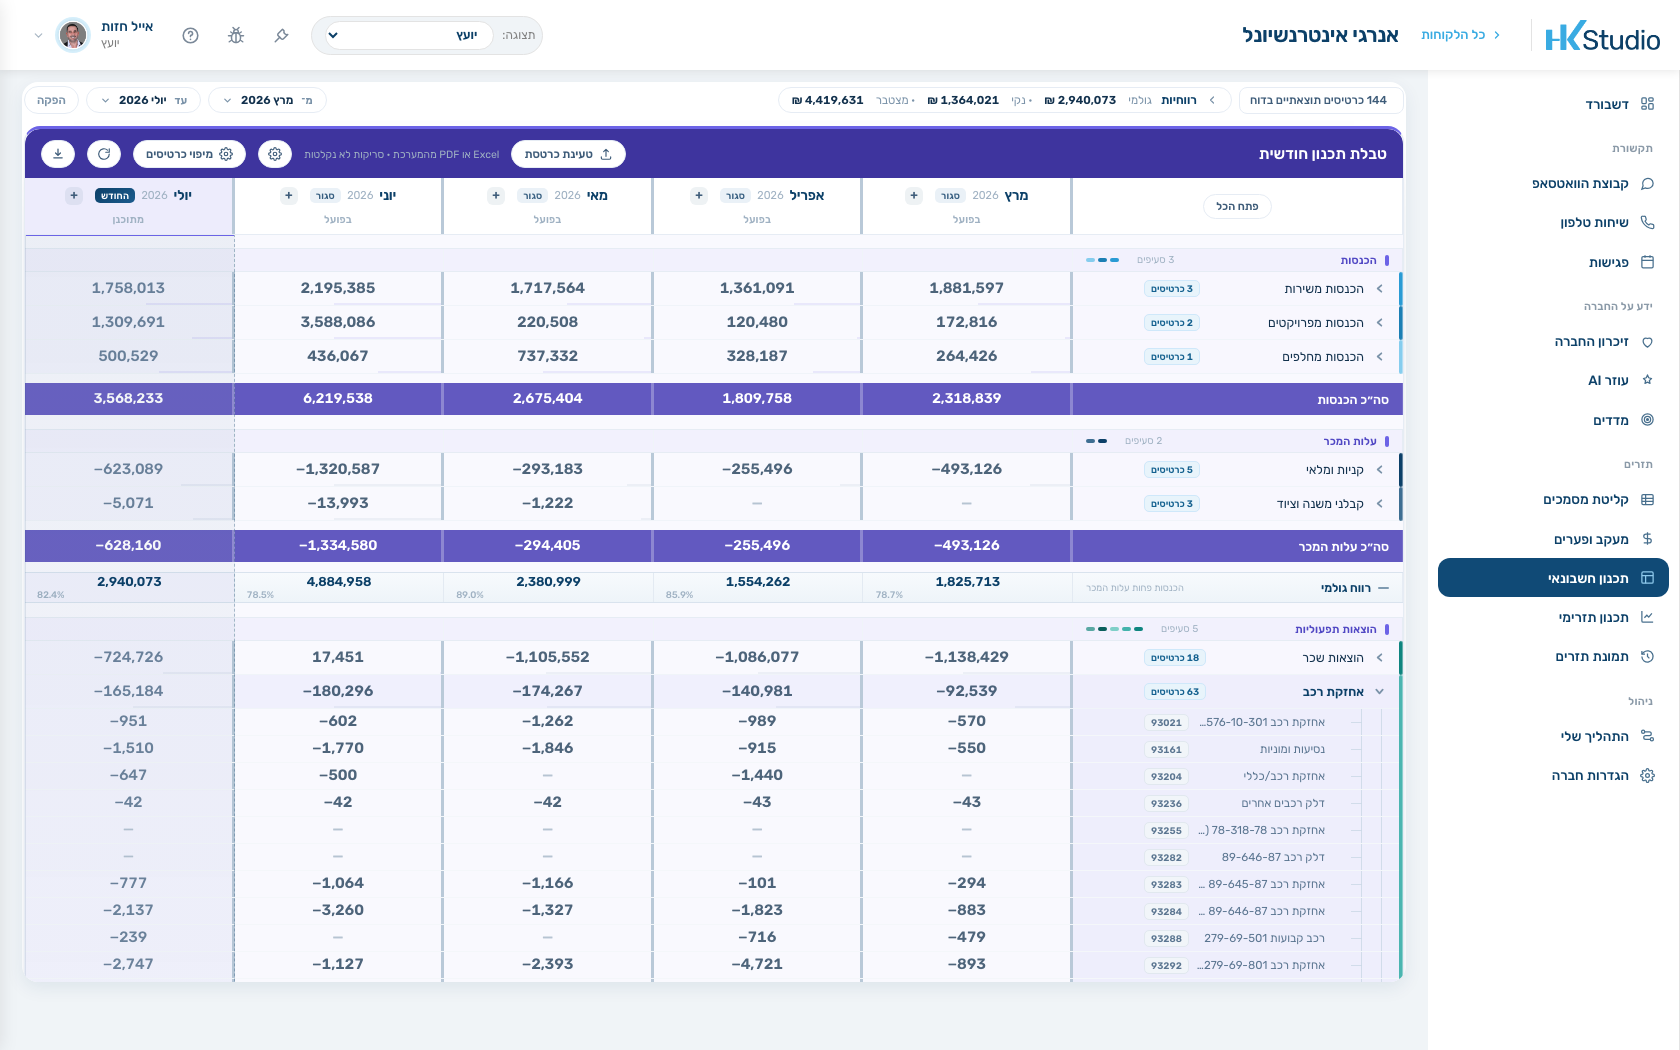
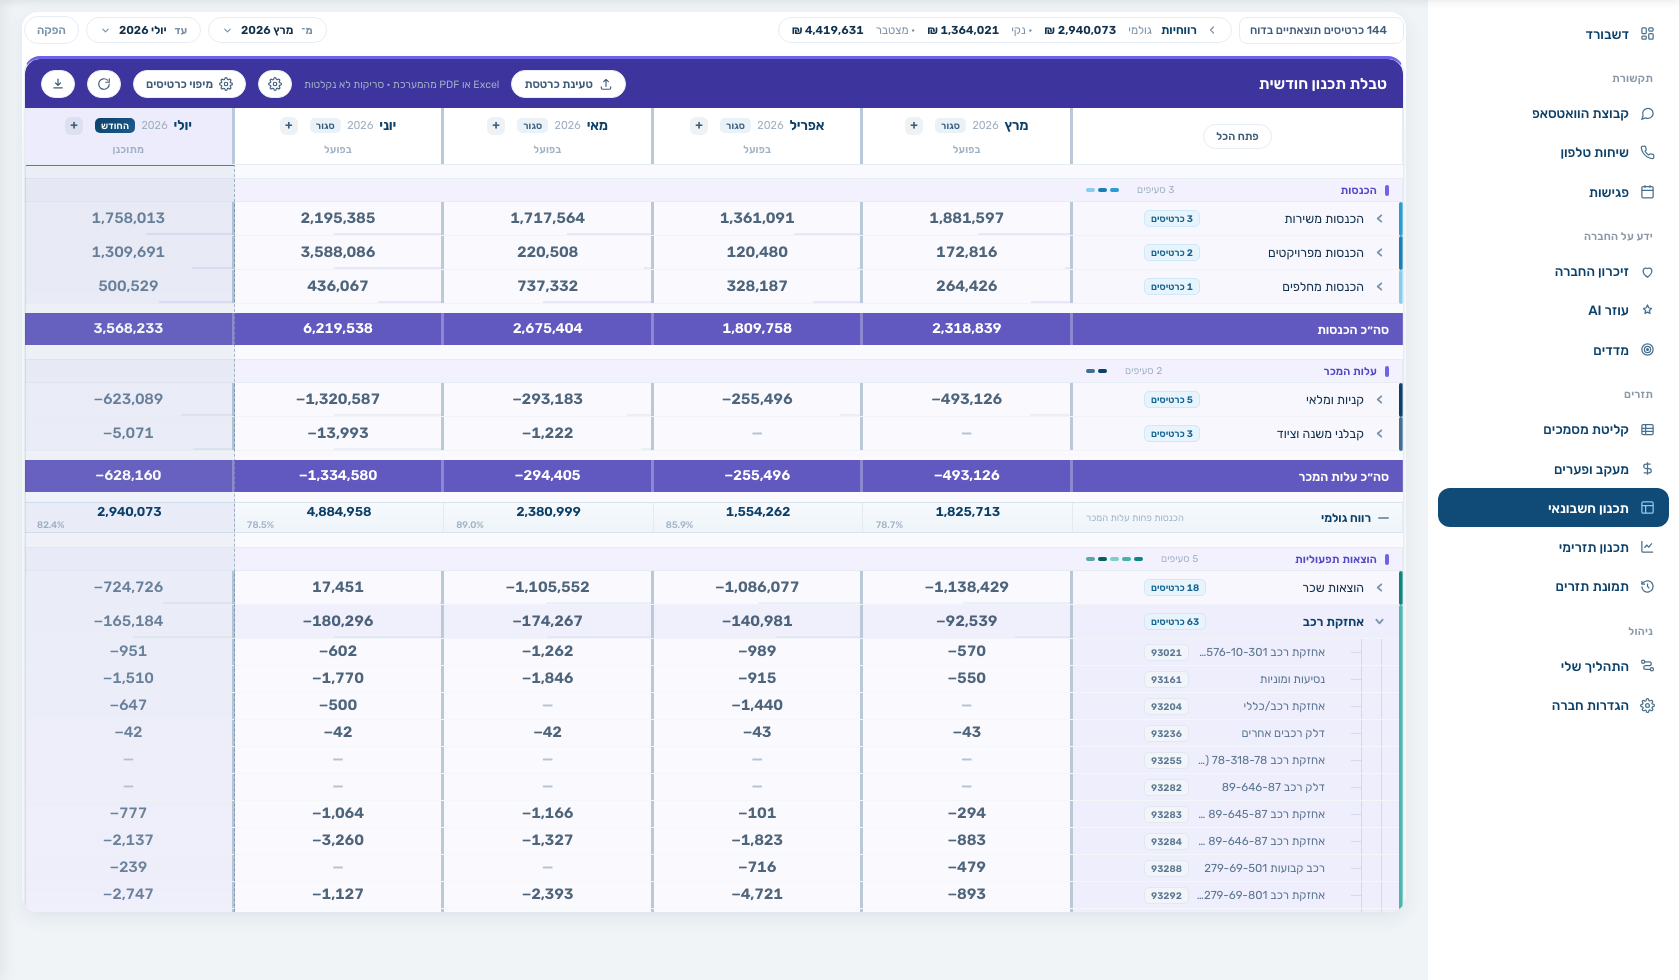
Strip prototype dev chrome from every screenshot; pull cli-dash
Screenshot hygiene — the checks that matter here are not "does the
string HK appear" but "would a real client ever see this":

- All 11 shots carried the prototype's dev envelope in their top 70px:
  the "אייל חזות" avatar with a role label, a role switcher
  ("תצוגה: יועץ / בעל העסק / מנהל מערכת"), and the bug and pin
  icons of the dev toolbar. That included adv-clients.png — the hero
  image, so a bug icon was the first thing a visitor would see.
  The bar is exactly 70px on every file and the cut lands on the app
  content's own top edge, so all 11 are cropped to 1680x980 with
  nothing lost. Originals remain in hk/mainScreen/docs/shots.
- cli-dash.png is pulled from the page entirely. Cropping clears its
  role switcher, but the middle card reads "משימות מנהל התזרים" — an
  internal role name on a screen that is meant to be the client's,
  under a section selling white-label. That one is Eyal's call; an
  HTML comment marks why it is held out.

Copy and behaviour:
- Secondary CTA is "שלח לי סיור במסכים" in both places. Dropped
  "מה HK עושה בחודש — 3 דקות": there is no such video, so a click
  landing on a contact form would have been a bait.
- Reveal animation toned down to opacity + 10px over 280ms, once per
  element; prefers-reduced-motion now also removes the progress bar
  from the DOM rather than just skipping the fades.

Note: the repository is public and has carried real product
screenshots in every commit since it was created in May. This commit
[…]

diff --git a/index.html b/index.html
@@ -43,11 +43,11 @@
       </p>
       <div class="hero-cta">
         <button class="btn btn-primary btn-lg" data-open-modal data-cta="הירו · בוא נעבור על התיק שלך">בוא נעבור על התיק שלך</button>
-        <button class="btn btn-ghost btn-lg" data-open-modal data-cta="הירו · מה HK עושה בחודש">מה HK עושה בחודש — 3 דקות</button>
+        <button class="btn btn-ghost btn-lg" data-open-modal data-cta="הירו · שלח לי סיור במסכים">שלח לי סיור במסכים</button>
       </div>
 
       <figure class="shot shot-hero">
-        <img src="assets/shots/adv-clients.png" width="1680" height="1050"
+        <img src="assets/shots/adv-clients.png" width="1680" height="980"
              alt="התיק שלי — כל הלקוחות במבט אחד, עם פס דופק, יתרה ומגמה" />
         <figcaption>התיק שלי — כל הלקוחות במבט אחד, עם פס דופק, יתרה ומגמה</figcaption>
       </figure>
@@ -198,13 +198,13 @@
         </ul>
 
         <figure class="shot">
-          <img src="assets/shots/mgr-opsmode.png" width="1680" height="1050" loading="lazy"
+          <img src="assets/shots/mgr-opsmode.png" width="1680" height="980" loading="lazy"
                alt="מצב תפעול על חברה אחת — חמשת שלבי העבודה עם מונה משימות בכל שלב, ושעון שמודד את הזמן" />
           <figcaption>מצב תפעול על חברה אחת — חמשת שלבי העבודה עם מונה משימות בכל שלב, ושעון שמודד את הזמן</figcaption>
         </figure>
 
         <figure class="shot">
-          <img src="assets/shots/mgr-ops.png" width="1680" height="1050" loading="lazy"
+          <img src="assets/shots/mgr-ops.png" width="1680" height="980" loading="lazy"
                alt="המבט־על של מנהל התזרים — זמני תפעול, סטטוס, מסמכים להזנה ודוחות חודשיים על פני כל החברות" />
           <figcaption>המבט־על של מנהל התזרים — זמני תפעול, סטטוס, מסמכים להזנה ודוחות חודשיים על פני כל החברות</figcaption>
         </figure>
@@ -229,7 +229,7 @@
         </ul>
 
         <figure class="shot">
-          <img src="assets/shots/co-mem.png" width="1680" height="1050" loading="lazy"
+          <img src="assets/shots/co-mem.png" width="1680" height="980" loading="lazy"
                alt="כרטיס זיכרון הלקוח — 12 קטגוריות בשני מעגלים, עם מקור ותאריך לכל עדכון" />
           <figcaption>כרטיס זיכרון הלקוח — 12 קטגוריות בשני מעגלים, עם מקור ותאריך לכל עדכון</figcaption>
         </figure>
@@ -254,7 +254,7 @@
         </ul>
 
         <figure class="shot">
-          <img src="assets/shots/adv-comm.png" width="1680" height="1050" loading="lazy"
+          <img src="assets/shots/adv-comm.png" width="1680" height="980" loading="lazy"
                alt="מסך התקשורת — ארבעה ערוצים ברשימה אחת, עם בורר לקוח וזירת תוצרים" />
           <figcaption>מסך התקשורת — ארבעה ערוצים ברשימה אחת, עם בורר לקוח וזירת תוצרים</figcaption>
         </figure>
@@ -278,13 +278,13 @@
         </ul>
 
         <figure class="shot">
-          <img src="assets/shots/co-acct.png" width="1680" height="1050" loading="lazy"
+          <img src="assets/shots/co-acct.png" width="1680" height="980" loading="lazy"
                alt="תכנון חשבונאי — הכרטסת נפרשת לדוח רווח והפסד עם סדנת מיפוי" />
           <figcaption>תכנון חשבונאי — הכרטסת נפרשת לדוח רווח והפסד עם סדנת מיפוי</figcaption>
         </figure>
 
         <figure class="shot">
-          <img src="assets/shots/co-budget.png" width="1680" height="1050" loading="lazy"
+          <img src="assets/shots/co-budget.png" width="1680" height="980" loading="lazy"
                alt="מעקב ופערים — יעד לכל שורה, והפרדה בין מה שירד למה שצבוע בתזרים" />
           <figcaption>מעקב ופערים — יעד לכל שורה, והפרדה בין מה שירד למה שצבוע בתזרים</figcaption>
         </figure>
@@ -303,11 +303,9 @@
         הלקוח מרגיש מטופל כל החודש, לא רק ביום הפגישה.
       </p>
 
-      <figure class="shot shot-inv">
-        <img src="assets/shots/cli-dash.png" width="1680" height="1050" loading="lazy"
-             alt="דשבורד הלקוח — תקציר הבוקר ופס המספרים, בשם המשרד שלך" />
-        <figcaption>דשבורד הלקוח — תקציר הבוקר ופס המספרים, בשם המשרד שלך</figcaption>
-      </figure>
+      <!-- צילום דשבורד הלקוח (cli-dash.png) מוחזק בחוץ עד להכרעת אייל:
+           הכרטיס האמצעי בו נושא את הכיתוב "משימות מנהל התזרים" — שם תפקיד פנימי.
+           השאלה אם הלקוח אמור לראות אותו במסך שלו פתוחה. הקובץ קיים ב-assets/shots/. -->
     </div>
   </section>
 
@@ -326,7 +324,7 @@
           מודדת את הלקוח. זו היחידה שעוזרת ליועץ להשתפר מפגישה לפגישה.
         </p>
         <figure class="shot">
-          <img src="assets/shots/meet-feedback.png" width="1680" height="1050" loading="lazy"
+          <img src="assets/shots/meet-feedback.png" width="1680" height="980" loading="lazy"
                alt="משוב ה-AI ליועץ אחרי הפגישה — לעיניך בלבד, לעולם לא ללקוח" />
           <figcaption>משוב ה-AI ליועץ אחרי הפגישה — לעיניך בלבד, לעולם לא ללקוח</figcaption>
         </figure>
@@ -354,7 +352,7 @@
           כבר לא נכון. זה תמיד נכון לרגע שפתחת אותו.
         </p>
         <figure class="shot">
-          <img src="assets/shots/meet-prep.png" width="1680" height="1050" loading="lazy"
+          <img src="assets/shots/meet-prep.png" width="1680" height="980" loading="lazy"
                alt="ההכנה לפגישה — נגזרת בכל פתיחה מהזיכרון החי, מהמספרים ומהמשימות הפתוחות" />
           <figcaption>ההכנה לפגישה — נגזרת בכל פתיחה מהזיכרון החי, מהמספרים ומהמשימות הפתוחות</figcaption>
         </figure>
@@ -406,7 +404,7 @@
       </div>
 
       <figure class="shot">
-        <img src="assets/shots/adv-comm-unid.png" width="1680" height="1050" loading="lazy"
+        <img src="assets/shots/adv-comm-unid.png" width="1680" height="980" loading="lazy"
              alt="תור השיחות הלא־מזוהות — שיחה בלי שיוך אינה מתומללת, ולכן היא ממתינה כאן" />
         <figcaption>תור השיחות הלא־מזוהות — שיחה בלי שיוך אינה מתומללת, ולכן היא ממתינה כאן</figcaption>
       </figure>

diff --git a/styles.css b/styles.css
@@ -438,7 +438,7 @@ p.prose { margin-top: 18px; }
 .lightbox-x { position: absolute; top: 16px; inset-inline-end: 20px; font-size: 2.2rem; color: #fff; line-height: 1; }
 
 /* ---------- SCROLL REVEAL ---------- */
-.reveal { opacity: 0; transform: translateY(20px); transition: opacity .7s cubic-bezier(.16,1,.3,1), transform .7s cubic-bezier(.16,1,.3,1); }
+.reveal { opacity: 0; transform: translateY(10px); transition: opacity .28s ease-out, transform .28s ease-out; }
 .reveal.is-revealed { opacity: 1; transform: none; }
 
 @media (prefers-reduced-motion: reduce) {

diff --git a/script.js b/script.js
@@ -6,6 +6,7 @@
 
   /* ---------- סרגל התקדמות ---------- */
   var bar = document.getElementById('scrollBar');
+  if (bar && reduceMotion) { bar.remove(); bar = null; }
   if (bar) {
     var updateBar = function () {
       var h = document.documentElement;
